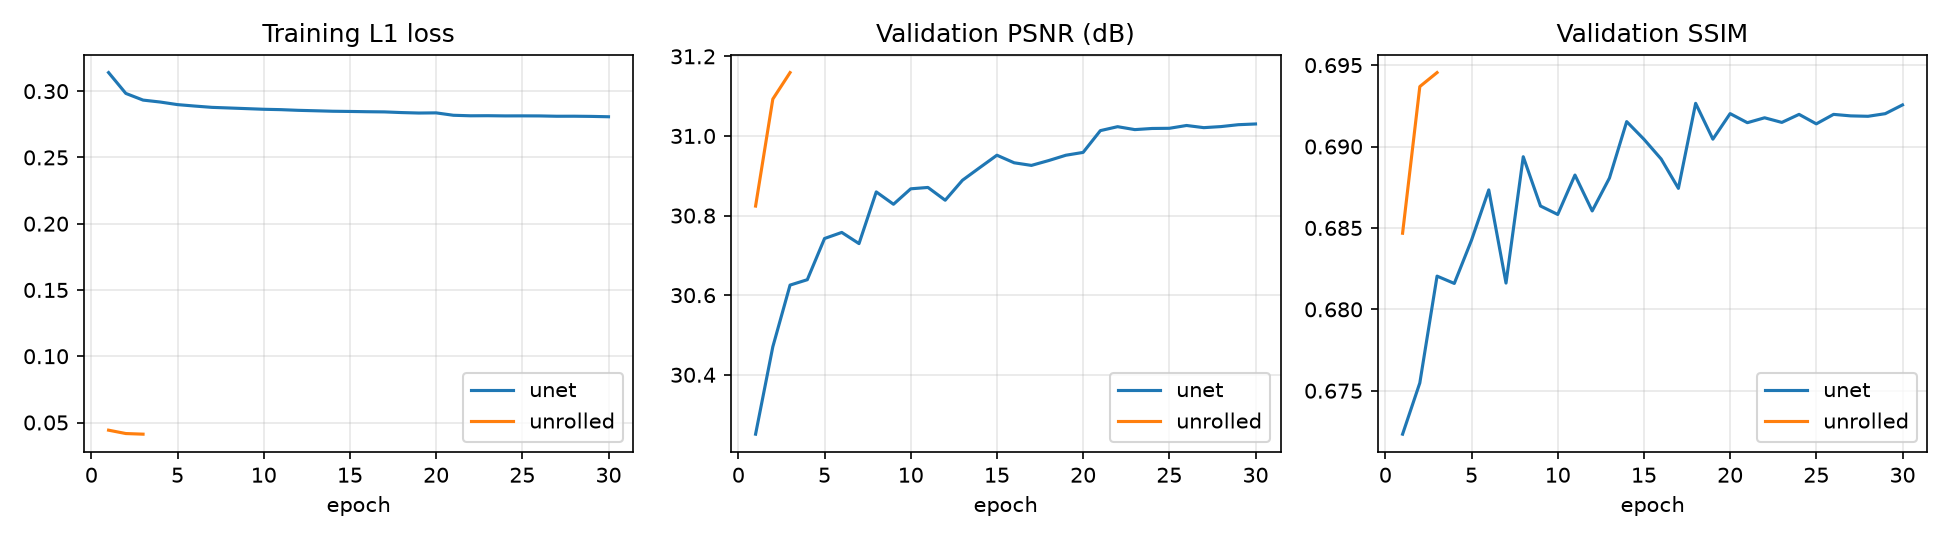
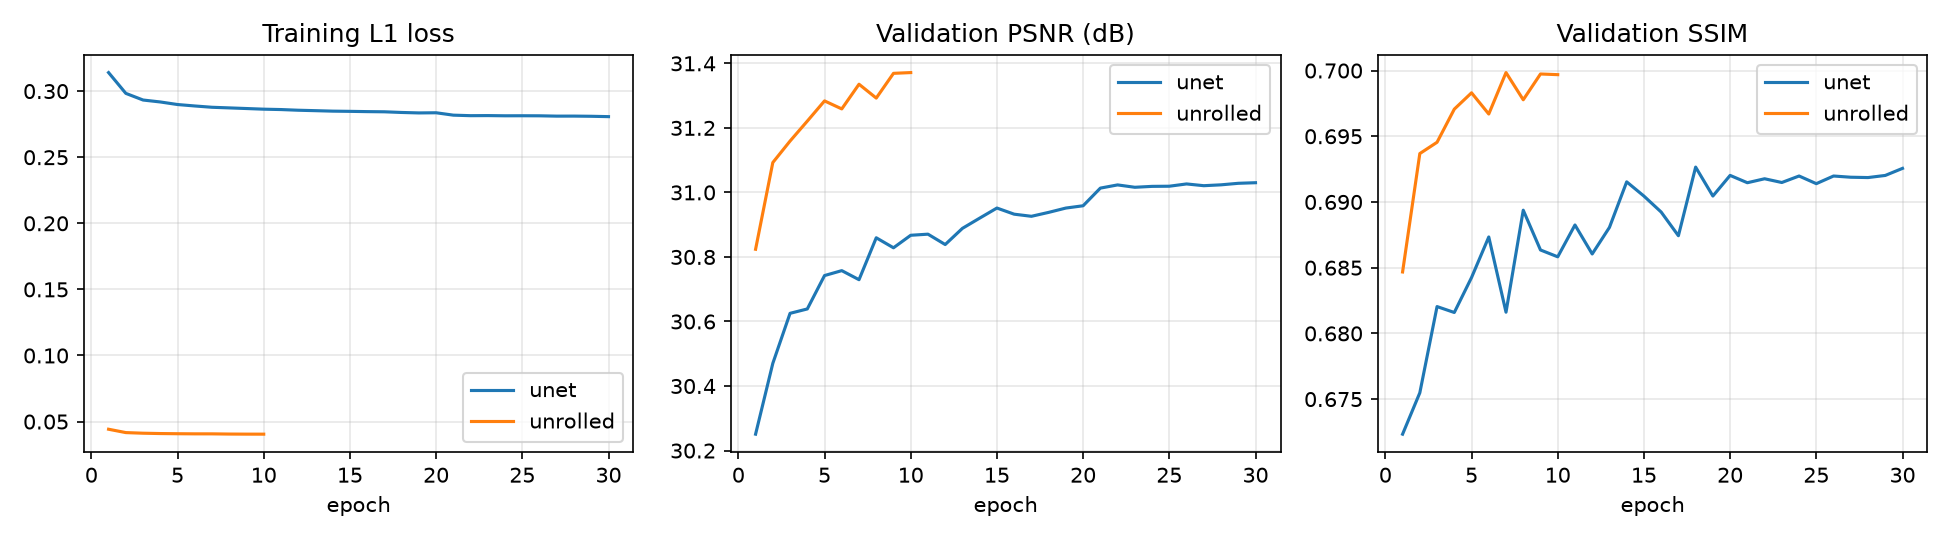
Final README: results, figures, limitations

diff --git a/scripts/make_synthetic_data.py b/scripts/make_synthetic_data.py
@@ -1,9 +1,5 @@
 """Create small synthetic volumes in the fastMRI single-coil format.
 
-Useful to check that the whole pipeline runs (tests, debugging) without the real
-data. The images are random ellipse phantoms, not anatomy: results on them say
-nothing about real MRI performance.
-
 Example:
     python scripts/make_synthetic_data.py --out data/synthetic --volumes 8
 """

diff --git a/README.md b/README.md
@@ -1,8 +1,8 @@
 # Accelerated MRI reconstruction: model-based optimisation vs deep learning
 
-Reconstruction of knee MR images from **undersampled k-space** (fastMRI single-coil),
+Reconstruction of knee MR images from **4x undersampled k-space** (fastMRI single-coil),
 comparing a classical compressed-sensing method with two deep learning approaches
-under exactly the same data, masks and metrics:
+under exactly the same data, masks and metrics.
 
 | Method               | Type                      | Idea                                                                                  |
 | -------------------- | ------------------------- | ------------------------------------------------------------------------------------- |
@@ -11,45 +11,141 @@ under exactly the same data, masks and metrics:
 | **U-Net**            | data-driven, image domain | learns to remove aliasing from the zero-filled image                                  |
 | **Unrolled network** | physics + learning        | unrolls a proximal-gradient algorithm, replacing the TV prior with small learned CNNs |
 
-> Status: work in progress. Results below will be updated as experiments run.
+**Main result:** on 30 held-out test volumes, the unrolled network gives the best reconstructions
+(PSNR 31.76 dB, SSIM 0.721), ahead of a U-Net (31.27 dB, 0.712) that has **2.7x more parameters**
+and was trained for **3x more epochs**. Building the acquisition physics into the network makes
+learning more efficient. TV regularisation barely improves on zero-filling for knee images.
+
+![comparison](figures/comparison_2.png)
 
 ## Problem
 
-An MRI scanner measures the Fourier transform of the image (k-space). Acquiring
-only one line in _R_ (acceleration factor _R_) shortens the scan by _R_, but the
-inverse problem becomes ill-posed:
+An MRI scanner measures the Fourier transform of the image (k-space). Acquiring only one
+phase-encoding line in _R_ (acceleration factor _R_) shortens the scan by _R_, but the inverse
+problem becomes ill-posed:
 
-$$ y = M F x + \varepsilon $$
+```math
+y = M F x + \varepsilon
+```
 
-where $x$ is the complex image, $F$ the 2D Fourier transform, $M$ the binary
-sampling mask and $y$ the measured k-space. Zero-filling ($x = F^H y$) produces
-aliasing artefacts, so a prior on $x$ is needed.
+where $x$ is the complex image, $F$ the 2D Fourier transform, $M$ the binary sampling mask and
+$y$ the measured k-space. Zero-filling ($x = F^H y$) produces aliasing artefacts (the vertical
+streaks in the error maps below), so a prior on $x$ is needed.
 
 ### TV-FISTA (model-based)
 
-$$ \hat x = \arg\min_x \tfrac12 \lVert M F x - y \rVert_2^2 + \lambda \, \mathrm{TV}(x) $$
+```math
+\hat x = \arg\min_x \frac{1}{2} \lVert M F x - y \rVert_2^2 + \lambda \, \mathrm{TV}(x)
+```
 
-- The data term has an $L = 1$ Lipschitz gradient (unitary $F$, binary $M$), so
-  the step size is exactly 1.
-- The proximal operator of the isotropic TV has no closed form; it is computed
-  with the **Fast Gradient Projection** algorithm on the dual problem (Beck &
-  Teboulle, 2009), warm-started across FISTA iterations.
+- The data term has an $L = 1$ Lipschitz gradient (unitary $F$, binary $M$), so the step size is exactly 1.
+- The proximal operator of the isotropic TV has no closed form; it is computed with the
+  **Fast Gradient Projection** algorithm on the dual problem (Beck & Teboulle, 2009),
+  warm-started across FISTA iterations.
 - $\lambda$ is selected on the **validation** set (`scripts/tune_tv.py`), never on test.
 
 ### U-Net (image domain)
 
-The fastMRI baseline U-Net (4 pooling levels, 32 base channels, ~7.8 M
-parameters) maps the normalised zero-filled magnitude image to the target, with an L1 loss.
+The fastMRI baseline U-Net (4 pooling levels, 32 base channels, 7.76 M parameters) maps the
+normalised zero-filled magnitude image to the target, with an L1 loss.
 
 ### Unrolled proximal-gradient network
 
-$$ x*{k+1} = x_k - \eta_k \, A^H(A x_k - y) - R*{\theta_k}(x_k), \qquad A = MF $$
+```math
+x_{k+1} = x_k - \eta_k \, A^H (A x_k - y) - R_{\theta_k}(x_k), \qquad A = M F
+```
 
-Each of the _K_ cascades takes an exact gradient step on the data term (the
-acquisition physics is built in), with a learned step $\eta_k$, followed by a
-small U-Net $R_{\theta_k}$ acting on the real and imaginary channels. This links
-the two worlds: it has the same structure as the optimisation algorithm, but the
-prior is learned from data.
+Each of the $K = 6$ cascades takes an exact gradient step on the data term (the acquisition
+physics is built in), with a learned step size $\eta_k$, followed by a small U-Net
+$R_{\theta_k}$ acting on the real and imaginary channels (2.89 M parameters in total).
+It has the same structure as the optimisation algorithm, but the prior is learned from data.
+
+## Results
+
+fastMRI single-coil knee, 4x random Cartesian undersampling (8 % fully sampled centre).
+Test set: 30 held-out volumes (1048 slices). Metrics per volume, mean ± std across volumes.
+
+| Method               | PSNR (dB)        | SSIM                | NMSE       | Parameters | Epochs | Time / slice (T4 GPU) |
+| -------------------- | ---------------- | ------------------- | ---------- | ---------- | ------ | --------------------- |
+| Zero-filled          | 29.14 ± 2.55     | 0.6489 ± 0.1141     | 0.0490     | 0          | –      | 0.002 s               |
+| TV-FISTA (λ = 0.001) | 29.32 ± 2.99     | 0.6316 ± 0.1287     | 0.0504     | 0          | –      | 0.35 s                |
+| U-Net                | 31.27 ± 3.12     | 0.7121 ± 0.1260     | 0.0335     | 7.76 M     | 30     | 0.012 s               |
+| Unrolled (K = 6)     | **31.76 ± 3.45** | **0.7207 ± 0.1290** | **0.0315** | 2.89 M     | 10     | 0.064 s               |
+
+**Observations**
+
+- **Both networks clearly outperform the classical methods**: +2.1 to +2.6 dB PSNR and about
+  +0.07 SSIM over zero-filling. The error maps show that they remove most of the aliasing streaks.
+- **The unrolled network is best on every metric** (+0.49 dB PSNR over the U-Net) with 2.7x fewer
+  parameters and a third of the training epochs.
+- **TV-FISTA barely improves on zero-filling.** It raises PSNR slightly but lowers SSIM, because
+  piecewise-constant regularisation smooths the fine texture of bone and cartilage. On validation,
+  PSNR peaks at λ = 0.005 while SSIM keeps decreasing as λ grows (see below).
+- **The large standard deviations come from differences between volumes**, not from instability.
+  fastMRI knee contains two contrasts:
+  - **proton density (PD)** images have high signal-to-noise ratio, and the networks gain up to
+    5 dB over zero-filling (33.6 dB vs 28.6 dB on the example above);
+  - **fat-suppressed (PD-FS)** images are much noisier, _including the fully sampled ground truth_.
+    All methods score lower (22–25 dB), the error maps are dominated by noise, and the networks
+    produce smoother images than the noisy reference. PSNR/SSIM against a noisy target
+    underestimates their visual quality on these volumes.
+
+### Examples (test volumes, middle slice)
+
+PD-FS contrast (noisy ground truth): the networks remove the aliasing but cannot, and should not,
+reproduce the noise of the reference.
+
+![PD-FS example](figures/comparison_0.png)
+![PD-FS example](figures/comparison_1.png)
+
+### Training curves (validation set, 10 volumes)
+
+![learning curves](figures/learning_curves.png)
+
+- The unrolled network exceeds the U-Net's final validation PSNR (31.03 dB after 30 epochs) from
+  its **second epoch**, and reaches 31.37 dB after 10 epochs.
+- The U-Net levels off after about 15 epochs; lowering the learning rate at epoch 20 adds less than 0.1 dB.
+- The two training losses are **not on the same scale**: the U-Net loss is computed on
+  mean/std-normalised images, the unrolled loss on images scaled by their maximum. Only the
+  validation metrics can be compared.
+- Training time per epoch: U-Net about 2 h on CPU; unrolled network about 8.5 h on CPU and 24 min on
+  a Colab T4 GPU (3 epochs on CPU, then resumed for 7 on GPU with `--resume`).
+
+### Choice of the TV weight (validation, 3 volumes)
+
+![TV tuning](figures/tv_tuning.png)
+
+λ = 0.005 maximises PSNR, but SSIM decreases monotonically with λ. Checkpoints of the networks are
+selected by SSIM, so the same criterion was used for TV (λ = 0.001). The absolute values are lower
+than on the test set because these 3 validation volumes are harder than average.
+
+## Evaluation protocol
+
+- Split **by volume** with a fixed seed: no slice of a test patient is seen during training.
+- Validation and test masks are **deterministic per volume**, so every method sees exactly the same
+  undersampling; training masks are redrawn every epoch (augmentation).
+- Metrics follow the fastMRI convention: computed on the 320 × 320 magnitude image, per volume,
+  with the data range set to the volume maximum.
+- Hyperparameters (TV λ, network checkpoints) are selected on validation only.
+- Running the evaluation on CPU and on GPU gave identical metrics for zero-filling, TV and the U-Net,
+  which confirms that the evaluation is reproducible.
+
+## Limitations
+
+- Training data: 139 volumes from the fastMRI validation release (the official baseline used about
+  970 training volumes), so absolute scores are below published fastMRI baselines.
+- One acceleration factor (4x) and one mask type; one training run (seed) per model.
+- The gap between the unrolled network and the U-Net (+0.49 dB) is smaller than the spread between
+  volumes; a paired per-volume comparison would make the comparison more rigorous.
+- PSNR and SSIM against noisy fat-suppressed references are imperfect measures of image quality.
+
+## Next steps
+
+- Paired per-volume statistics (the per-volume metrics are saved in `results/test/per_volume_*.json`)
+- Several acceleration factors (4x, 8x) and equispaced masks
+- Training the unrolled network for longer (learning-rate decay at epoch 15)
+- Plug-and-play FISTA with the trained network as denoiser
+- Robustness to mask and contrast changes (domain shift), and uncertainty estimation
 
 ## Project structure
 
@@ -57,9 +153,9 @@ prior is learned from data.
 mri-reconstruction/
 ├── configs/                 # YAML configs (data paths, mask, model, training)
 ├── scripts/
-│   ├── split_data.py        # train/val/test split *by volume* (no patient leakage)
+│   ├── split_data.py        # train/val/test split by volume (no patient leakage)
 │   ├── tune_tv.py           # choose lambda for TV-FISTA on validation
-│   ├── train.py             # train U-Net or unrolled network
+│   ├── train.py             # train U-Net or unrolled network (--resume supported)
 │   ├── evaluate.py          # compare all methods on the test set
 │   ├── make_figures.py      # comparison images, error maps, learning curves
 │   └── make_synthetic_data.py  # tiny fake fastMRI files for tests
@@ -71,42 +167,45 @@ mri-reconstruction/
 │   ├── models/              # U-Net, unrolled network
 │   ├── metrics.py           # NMSE, PSNR, SSIM per volume (fastMRI convention)
 │   ├── reconstruct.py       # common interface: k-space batch -> 320x320 image
-│   ├── train.py, evaluate.py
-└── tests/                   # unit tests (adjoint checks, TV, shapes) + end-to-end run
+│   └── train.py, evaluate.py
+├── figures/                 # figures used in this README
+└── tests/                   # unit tests (adjoint checks, TV, shapes, resume) + end-to-end run
 ```
 
 ## Setup
 
 ```bash
 python -m venv .venv
-source .venv/bin/activate(.\.venv\Scripts\Activate.ps1)        # Windows: .venv\Scripts\activate
+source .venv/bin/activate          # Windows PowerShell: .\.venv\Scripts\Activate.ps1
 pip install -r requirements.txt
 pip install -e .
-pytest                           # ~1 min, runs on synthetic data
+pytest                             # ~1 min, runs on synthetic data
 ```
 
 ## Data
 
-1. Request access to fastMRI at <https://fastmri.med.nyu.edu/> and download the
-   **knee single-coil** data (`knee_singlecoil_val.tar` is enough to start).
-2. Extract the archive into `data/` (the data are not included in this repository):
+1. Request access to fastMRI at <https://fastmri.med.nyu.edu/> and download the **knee single-coil
+   validation** data (`knee_singlecoil_val.tar`, 199 volumes, 14.9 GB).
+2. Extract it into `data/` (the data are not included in this repository):
+
    ```bash
-   mkdir -p data && python -c "import tarfile; tarfile.open('data/knee_singlecoil_val.tar', 'r:*').extractall('data/')"
+   python -c "import tarfile; tarfile.open('data/knee_singlecoil_val.tar', 'r:*').extractall('data/')"
    ```
-3. Split the volumes into train / validation / test (139 / 30 / 30 %, by volume):
+
+3. Split the volumes into train / validation / test (139 / 30 / 30 volumes):
+
    ```bash
    python scripts/split_data.py --data-root data/singlecoil_val --out data/splits.json
    ```
 
-The official fastMRI test set has no ground truth, so this project builds its own
-held-out test set from volumes with `reconstruction_esc` targets.
+The official fastMRI test set has no ground truth, so this project builds its own held-out test set
+from volumes with `reconstruction_esc` targets.
 
 ## Usage
 
 ```bash
-# 1. Choose the TV weight on validation volumes
+# 1. Choose the TV weight on validation volumes, then set tv.lam in configs/evaluate.yaml
 python scripts/tune_tv.py --config configs/evaluate.yaml --lams 0.001 0.003 0.005 0.01 0.02
-#    -> then set tv.lam in configs/evaluate.yaml
 
 # 2. Train the networks
 python scripts/train.py --config configs/unet.yaml
@@ -116,7 +215,14 @@ python scripts/train.py --config configs/unrolled.yaml
 python scripts/evaluate.py --config configs/evaluate.yaml
 
 # 4. Figures for this README
-python scripts/make_figures.py --results results/test --runs runs/unet runs/unrolled
+python scripts/make_figures.py --results results/test --runs runs/unet runs/unrolled --tv-tuning results/tv_tuning.csv
+```
+
+Training can be interrupted and resumed from the last saved epoch (`runs/<model>/last.pt`);
+`train.epochs` is the _total_ number of epochs:
+
+```bash
+python scripts/train.py --config configs/unrolled.yaml --resume --set train.epochs=10
 ```
 
 Any config value can be overridden from the command line, e.g. a quick CPU run:
@@ -124,49 +230,6 @@ Any config value can be overridden from the command line, e.g. a quick CPU run:
 ```bash
 python scripts/train.py --config configs/unet.yaml --set model.chans=16 data.max_train_volumes=15 train.epochs=5
 ```
-
-## Results
-
-fastMRI single-coil knee, 4x random Cartesian undersampling (8 % fully sampled centre).
-Test set: 30 held-out volumes (1048 slices). Metrics per volume, mean ± std across volumes.
-
-| Method               | PSNR (dB)        | SSIM                | NMSE       | Parameters | Epochs | Time / slice (CPU) |
-| -------------------- | ---------------- | ------------------- | ---------- | ---------- | ------ | ------------------ |
-| Zero-filled          | 29.14 ± 2.55     | 0.6489 ± 0.1141     | 0.0490     | 0          | –      | 0.005 s            |
-| TV-FISTA (λ = 0.001) | 29.32 ± 2.99     | 0.6316 ± 0.1287     | 0.0504     | 0          | –      | 4.6 s              |
-| U-Net                | 31.27 ± 3.12     | 0.7121 ± 0.1260     | 0.0335     | 7.76 M     | 30     | 0.46 s             |
-| Unrolled (K = 6)     | **31.59 ± 3.37** | **0.7154 ± 0.1285** | **0.0323** | 2.89 M     | 3\*    | 2.1 s              |
-
-\* The unrolled network was trained for only 3 epochs on CPU (~8.5 h per epoch); training is
-being continued on GPU and this table will be updated.
-
-**Observations**
-
-- Both networks clearly outperform the classical methods (+2.1 to +2.5 dB PSNR, +0.06 SSIM).
-- TV-FISTA barely improves on zero-filling for knee images: it raises PSNR slightly but lowers
-  SSIM by smoothing fine texture (λ = 0.005 gives the best PSNR, λ = 0.001 the best SSIM on validation).
-- The unrolled network matches and slightly exceeds the U-Net with 2.7x fewer parameters and
-  10x fewer epochs, which shows the benefit of building the acquisition physics into the model.
-- The large standard deviations reflect differences between volumes (PD vs PD-FS contrasts), not
-  instability.
-
-![comparison](figures/comparison_0.png)
-
-## Evaluation protocol
-
-- Split **by volume**, fixed seed: no slice of a test patient is seen in training.
-- Validation and test masks are **deterministic per volume**, so every method sees
-  exactly the same undersampling; training masks are redrawn each epoch (augmentation).
-- Metrics follow the fastMRI convention: computed on the 320 × 320 magnitude image,
-  per volume, with the data range set to the volume maximum.
-- Hyperparameters (TV λ, network checkpoints) are selected on validation only.
-
-## Next steps
-
-- Several acceleration factors (4x, 8x) and equispaced masks
-- Plug-and-play FISTA with the trained denoiser as prior
-- Robustness to mask and contrast changes (domain shift)
-- Uncertainty estimation of the reconstructions
 
 ## References
 
